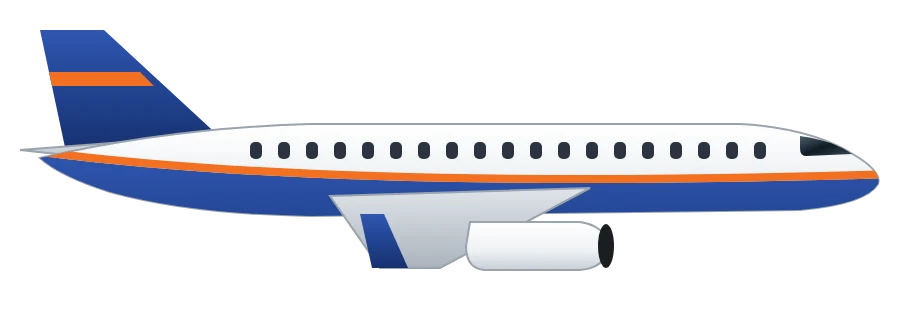
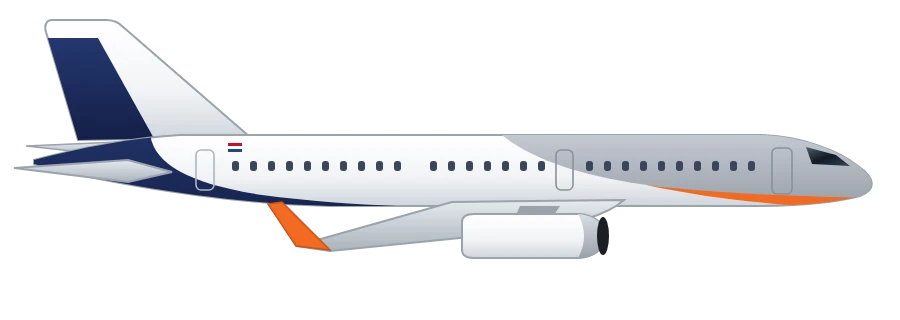
Build 9: nieuwe tekening regeringsvliegtuig PH-GOV (app en website)
Claude-Session: https://claude.ai/code/session_01CXMY93G7xDhpkGzoP4jpki

Changed region(s): [[0.0, 0.0625, 0.9956, 0.8438]]

diff --git a/tools/make_project.py b/tools/make_project.py
@@ -57,7 +57,7 @@ identity = {
     "CODE_SIGN_STYLE": "Automatic",
     "DEVELOPMENT_TEAM": TEAM,
     "MARKETING_VERSION": "1.0.0",
-    "CURRENT_PROJECT_VERSION": "8",
+    "CURRENT_PROJECT_VERSION": "9",
     "GENERATE_INFOPLIST_FILE": "YES",
     "INFOPLIST_KEY_ITSAppUsesNonExemptEncryption": "NO",
     "SWIFT_EMIT_LOC_STRINGS": "YES",
